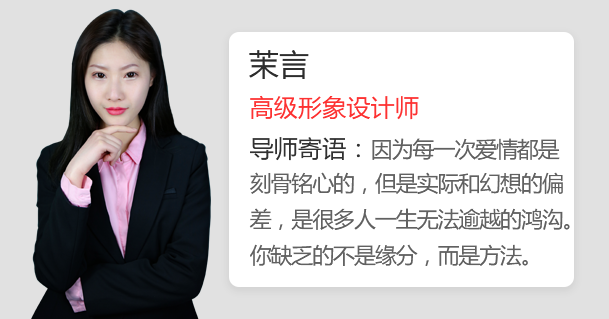
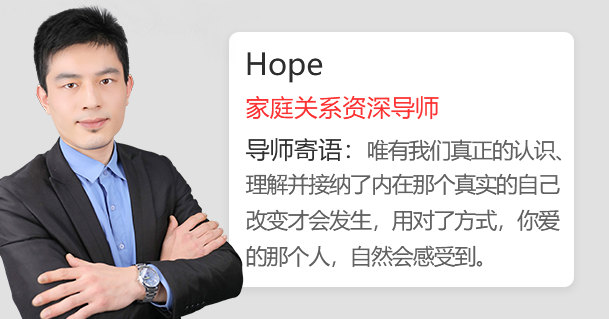
更新首页图片及页面结构;

diff --git a/index.html b/index.html
@@ -174,7 +174,7 @@
     <!-- End module 03 area: mentor introduction -->
 
     <!-- Start module 04 area: dynamic of ora -->
-    <div class="module module-04">
+    <div class="module module-04 hidden">
         <!-- Start module main area -->
         <div class="main">
 
